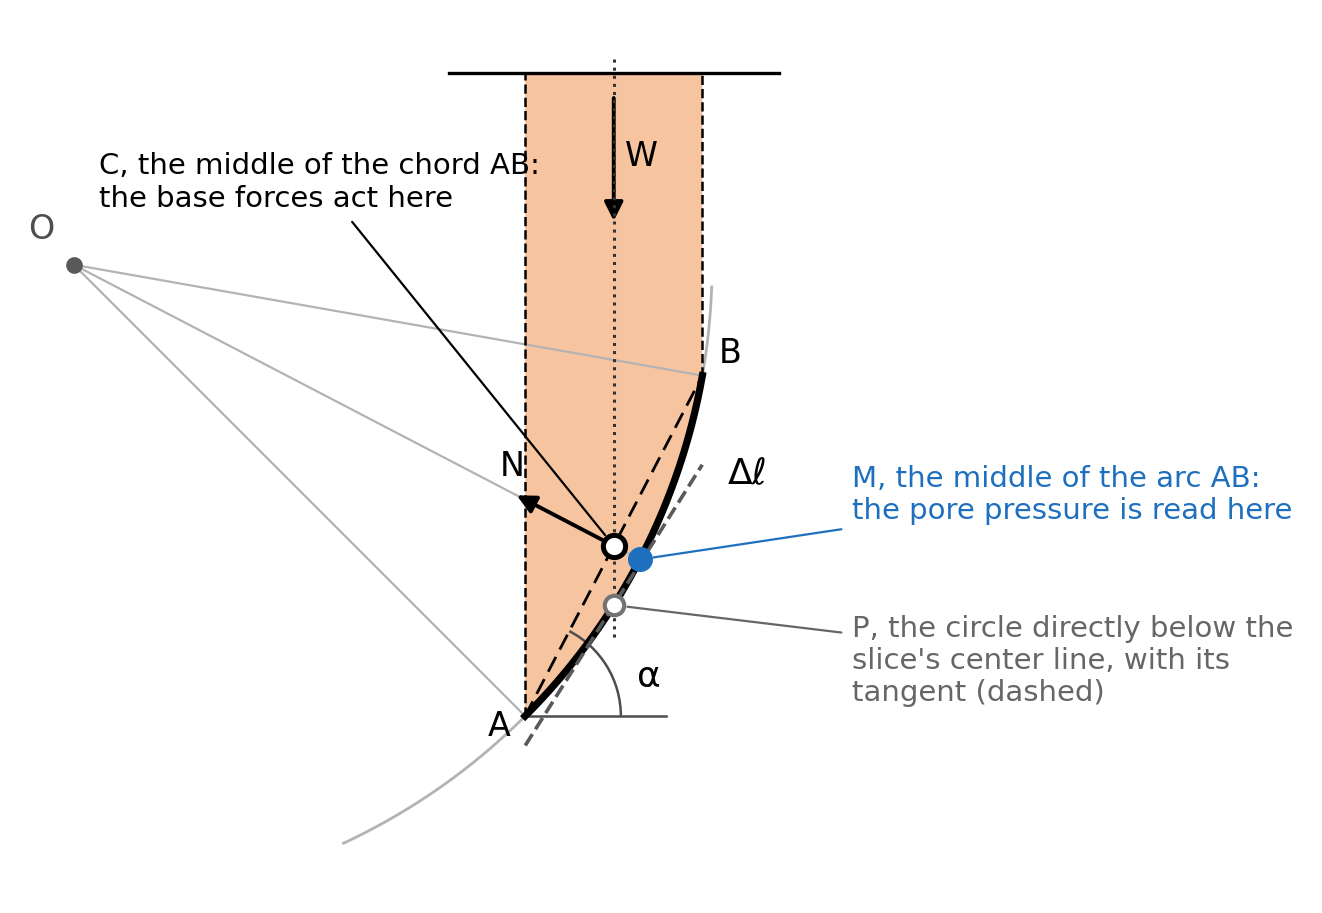
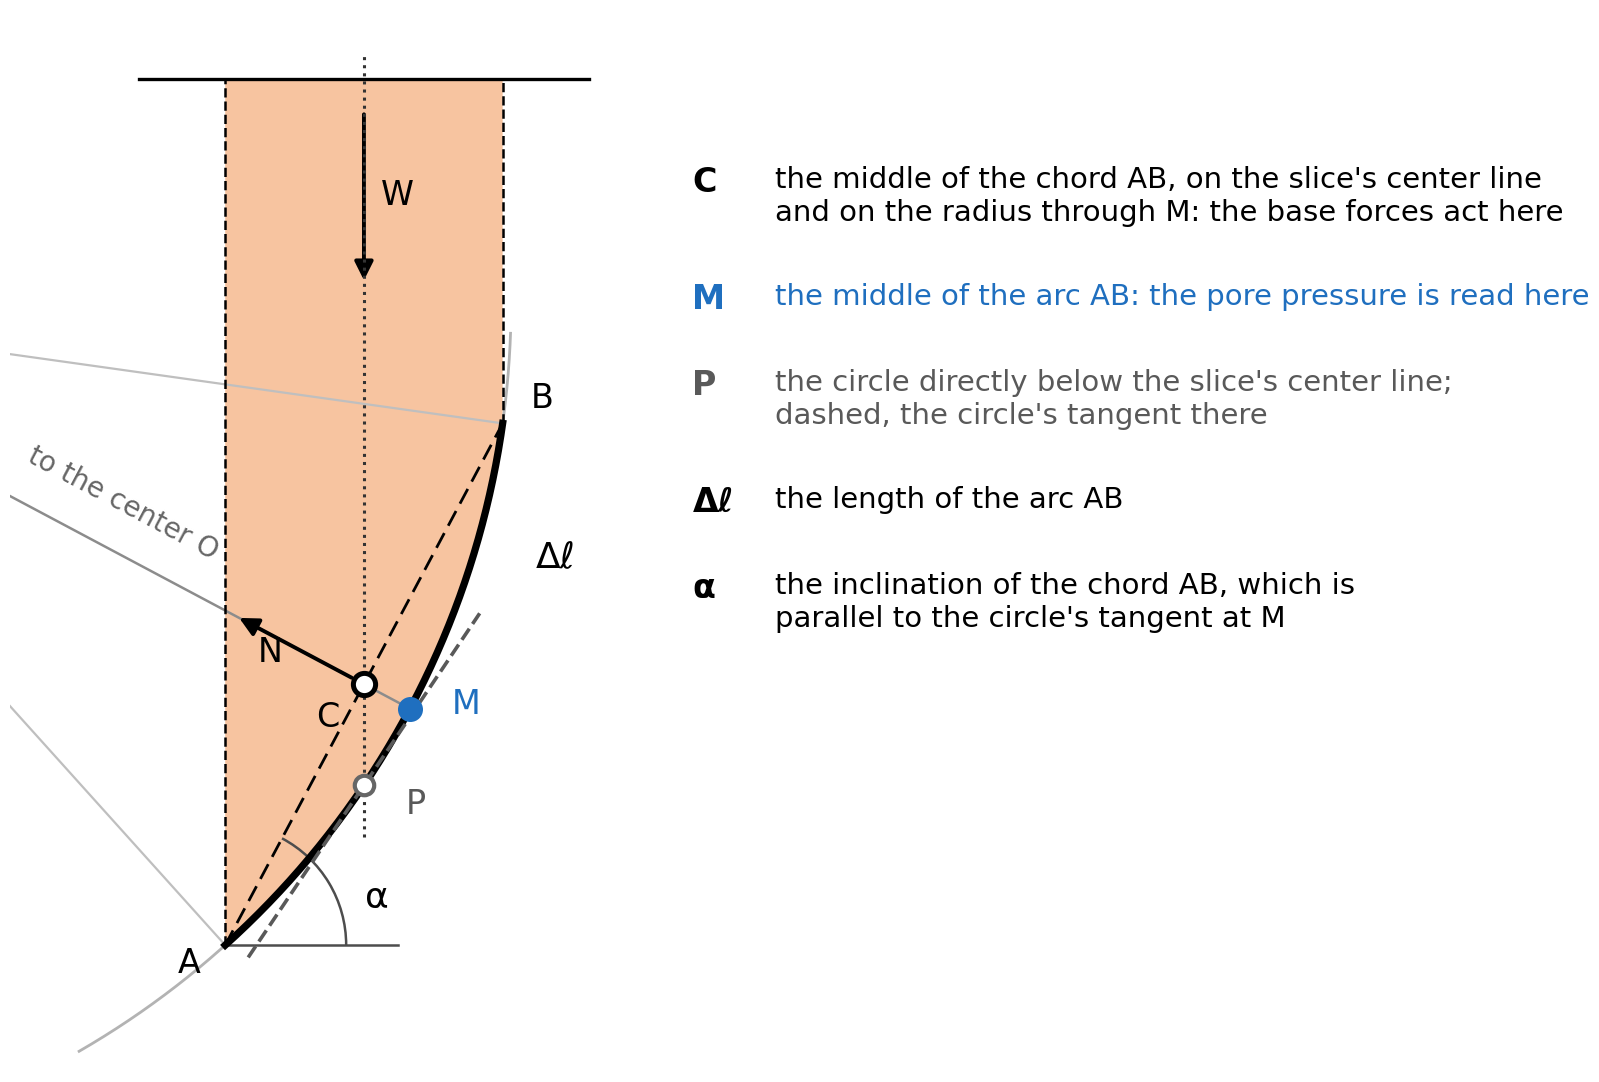
Circle-slice figures: letters at the points and a key; leaders stop short
The slice figure is zoomed on the slice, with the radii running off toward O;
C, M and P carry their letters only, and a key beside the slice says what each
letter is, so no leader crosses the drawing. The width-and-angle figure's
pointers stop short of the arc.

Claude-Session: https://claude.ai/code/session_019MWct99sAN4cmZsDr6H3a8

diff --git a/docs/lem/images/circle_slicing.py b/docs/lem/images/circle_slicing.py
@@ -78,7 +78,8 @@ def draw_section(ax, bounds, title):
     ax.annotate("last slice: %.0f° of arc" % span,
                 xy=(XO + R * np.sin(tm) + 0.3, YO - R * np.cos(tm)), xytext=(26.0, 9.0),
                 fontsize=10.5, ha="left", va="center", color="#c0392b",
-                arrowprops=dict(arrowstyle="-", color="#c0392b", lw=0.9))
+                arrowprops=dict(arrowstyle="-", color="#c0392b", lw=0.9,
+                                shrinkA=3, shrinkB=9))
     ax.text(-7.0, 22.6, title, fontsize=12, ha="left", va="bottom", weight="bold")
     ax.set_xlim(-8.0, 37.0)
     ax.set_ylim(-3.0, 24.5)
@@ -103,79 +104,101 @@ def figure_width_angle():
 
 
 def figure_base():
-    """One slice from 45 to 80 degrees of a circle of radius 10, centered at O."""
+    """One slice from 42 to 82 degrees of a circle of radius 10, centered at O,
+    drawn zoomed: the radii run off the panel toward O. Each point carries its
+    letter; the key beside the slice says what each letter is."""
     r = 10.0
-    t1, t2 = np.radians(45.0), np.radians(80.0)
+    t1, t2 = np.radians(42.0), np.radians(82.0)
     tm = 0.5 * (t1 + t2)
     on = lambda t: np.array([r * np.sin(t), -r * np.cos(t)])
     A, B, M = on(t1), on(t2), on(tm)
     C = 0.5 * (A + B)
     tp = np.arcsin(C[0] / r)
     P = on(tp)
-    top = 3.0
-    lab = 12.2                      # the column the labels stand in
+    top = 2.6
+    x_lo, x_hi, y_lo, y_hi = 4.2, 11.6, -8.9, 3.4
 
-    fig, ax = plt.subplots(figsize=(8.4, 6.6))
+    fig, ax = plt.subplots(figsize=(9.6, 6.9))
     ts = np.linspace(t1, t2, 200)
     arc = np.array([on(t) for t in ts])
     poly = [(A[0], top)] + [tuple(p) for p in arc] + [(B[0], top)]
     ax.add_patch(Polygon(poly, closed=True, fc=SOIL, ec="none", zorder=0))
-    ax.plot([A[0] - 1.2, B[0] + 1.2], [top, top], color="black", lw=1.2)
+    ax.plot([A[0] - 1.0, B[0] + 1.0], [top, top], color="black", lw=1.2)
     for x, y in ((A[0], A[1]), (B[0], B[1])):
         ax.plot([x, x], [y, top], ls="--", color="black", lw=0.9)
-    # the circle beyond the slice, faint, and the radii to A, M and B
-    tt = np.linspace(np.radians(25), np.radians(88), 300)
+    # the circle beyond the slice, faint
+    tt = np.linspace(np.radians(30), np.radians(88), 300)
     ax.plot(r * np.sin(tt), -r * np.cos(tt), color="0.7", lw=1.0, zorder=1)
-    for p in (A, M, B):
-        ax.plot([0, p[0]], [0, p[1]], color="0.7", lw=0.8, zorder=1)
-    ax.plot([0], [0], "o", color="0.35", ms=5)
-    ax.text(-0.3, 0.3, "O", fontsize=12, ha="right", va="bottom", color="0.3")
+
+    # radii from A, M and B toward the center O, clipped at the panel's left edge
+    def toward_o(p, color, lw):
+        k = (p[0] - x_lo) / p[0]
+        q = p * (1.0 - k)
+        ax.plot([p[0], q[0]], [p[1], q[1]], color=color, lw=lw, zorder=1)
+        return q
+    for p in (A, B):
+        toward_o(p, "0.75", 0.8)
+    q = toward_o(M, "0.55", 0.9)
+    ax.text(q[0] + 0.15, q[1] + 0.35, "to the center O", fontsize=10, color="0.4",
+            ha="left", va="bottom", rotation=np.degrees(np.arctan2(-M[1], -M[0])) - 180,
+            rotation_mode="anchor")
     # the base: arc and chord
     ax.plot(arc[:, 0], arc[:, 1], color="black", lw=2.6, zorder=4)
     ax.plot([A[0], B[0]], [A[1], B[1]], color="black", lw=1.0, ls=(0, (6, 3)), zorder=4)
     # the slice's center line, where the weight acts
-    ax.plot([C[0], C[0]], [P[1] - 0.5, top + 0.25], ls=":", color="0.2", lw=1.1)
-    ax.add_patch(FancyArrowPatch((C[0], top - 0.3), (C[0], top - 2.4),
+    ax.plot([C[0], C[0]], [P[1] - 0.6, top + 0.3], ls=":", color="0.2", lw=1.1)
+    ax.add_patch(FancyArrowPatch((C[0], top - 0.35), (C[0], top - 2.4),
                                  arrowstyle="-|>", mutation_scale=14, color="black", lw=1.4))
-    ax.text(C[0] + 0.18, top - 1.3, "W", fontsize=12, ha="left", va="center")
+    ax.text(C[0] + 0.2, top - 1.35, "W", fontsize=12, ha="left", va="center")
     # the base normal at C, along the radius toward O
     d = -C / np.linalg.norm(C)
-    ax.add_patch(FancyArrowPatch(tuple(C), tuple(C + 1.8 * d), arrowstyle="-|>",
+    tip = C + 1.7 * d
+    ax.add_patch(FancyArrowPatch(tuple(C), tuple(tip), arrowstyle="-|>", shrinkA=5,
                                  mutation_scale=14, color="black", lw=1.4, zorder=6))
-    ax.text(*(C + 1.8 * d + np.array([0.0, 0.42])), "N", fontsize=12, ha="center",
-            va="center")
+    ax.text(tip[0] + 0.42, tip[1] - 0.42, "N", fontsize=12, ha="center", va="center")
     # alpha, the chord's inclination, drawn at A
-    ax.plot([A[0], A[0] + 2.2], [A[1], A[1]], color="0.3", lw=0.9)
-    ax.add_patch(Arc(tuple(A), 3.0, 3.0, theta1=0, theta2=np.degrees(tm), color="0.3",
+    ax.plot([A[0], A[0] + 2.0], [A[1], A[1]], color="0.3", lw=0.9)
+    ax.add_patch(Arc(tuple(A), 2.8, 2.8, theta1=0, theta2=np.degrees(tm), color="0.3",
                      lw=0.9))
-    ax.text(A[0] + 1.75, A[1] + 0.62, "α", fontsize=13, ha="left", va="center")
+    ax.text(A[0] + 1.62, A[1] + 0.55, "α", fontsize=13, ha="left", va="center")
     # the tangent at P, flatter than the chord
     tan = np.array([np.cos(tp), np.sin(tp)])
-    ax.plot([P[0] - 2.6 * tan[0], P[0] + 2.6 * tan[0]],
-            [P[1] - 2.6 * tan[1], P[1] + 2.6 * tan[1]], color="0.35", lw=1.3, ls="--",
+    ax.plot([P[0] - 2.4 * tan[0], P[0] + 2.4 * tan[0]],
+            [P[1] - 2.4 * tan[1], P[1] + 2.4 * tan[1]], color="0.35", lw=1.3, ls="--",
             zorder=5)
-    # the three points
+    # the three points and their letters
     ax.plot(*C, "o", ms=8, mfc="white", mec="black", mew=1.8, zorder=7)
     ax.plot(*M, "o", ms=8, color=WATER, zorder=7)
-    ax.plot(*P, "o", ms=7, mfc="white", mec="0.45", mew=1.5, zorder=7)
-    ax.text(A[0] - 0.4, A[1] - 0.15, "A", fontsize=12, ha="center", va="center")
-    ax.text(B[0] + 0.25, B[1] + 0.35, "B", fontsize=12, ha="left", va="center")
+    ax.plot(*P, "o", ms=7, mfc="white", mec="0.4", mew=1.5, zorder=7)
+    ax.text(C[0] - 0.42, C[1] - 0.38, "C", fontsize=12, ha="center", va="center",
+            zorder=8)
+    ax.text(M[0] + 0.48, M[1] + 0.05, "M", fontsize=12, ha="left", va="center",
+            color=WATER, zorder=8)
+    ax.text(P[0] + 0.48, P[1] - 0.22, "P", fontsize=12, ha="left", va="center",
+            color="0.35", zorder=8)
+    ax.text(A[0] - 0.42, A[1] - 0.2, "A", fontsize=12, ha="center", va="center")
+    ax.text(B[0] + 0.32, B[1] + 0.3, "B", fontsize=12, ha="left", va="center")
+    tb = t1 + 0.8 * (t2 - t1)
+    ax.text(*(on(tb) * 1.07), "Δℓ", fontsize=13, ha="left", va="center")
 
-    def label(xy, y, text, color, x=lab):
-        ax.annotate(text, xy=tuple(xy), xytext=(x, y), fontsize=10.5, ha="left",
-                    va="center", color=color,
-                    arrowprops=dict(arrowstyle="-", color=color, lw=0.8,
-                                    shrinkA=2, shrinkB=5))
-
-    label(C, 1.3, "C, the middle of the chord AB:\nthe base forces act here", "black",
-          x=0.4)
-    label(M, -3.6, "M, the middle of the arc AB:\nthe pore pressure is read here", WATER)
-    label(P, -6.2, "P, the circle directly below the\nslice's center line, with its\n"
-          "tangent (dashed)", "0.4")
-    ta = t1 + 0.78 * (t2 - t1)
-    ax.text(*(on(ta) * (1.0 + 0.075)), "Δℓ", fontsize=13, ha="left", va="center")
-    ax.set_xlim(-1.0, lab + 7.2)
-    ax.set_ylim(-10.0, 4.0)
+    # the key, beside the slice
+    key = [("C", "the middle of the chord AB, on the slice's center line\n"
+                 "and on the radius through M: the base forces act here", "black"),
+           ("M", "the middle of the arc AB: the pore pressure is read here", WATER),
+           ("P", "the circle directly below the slice's center line;\n"
+                 "dashed, the circle's tangent there", "0.35"),
+           ("Δℓ", "the length of the arc AB", "black"),
+           ("α", "the inclination of the chord AB, which is\n"
+                 "parallel to the circle's tangent at M", "black")]
+    y = 1.6
+    for sym, text, color in key:
+        ax.text(x_hi + 0.5, y, sym, fontsize=12, ha="left", va="top", color=color,
+                weight="bold")
+        ax.text(x_hi + 1.45, y, text, fontsize=10.5, ha="left", va="top", color=color,
+                linespacing=1.25)
+        y -= 0.62 + 0.37 * (1 + text.count("\n"))
+    ax.set_xlim(x_lo, x_hi + 9.6)
+    ax.set_ylim(y_lo, y_hi)
     ax.set_aspect("equal")
     ax.axis("off")
     out = os.path.join(HERE, "circle_slice_base.png")
